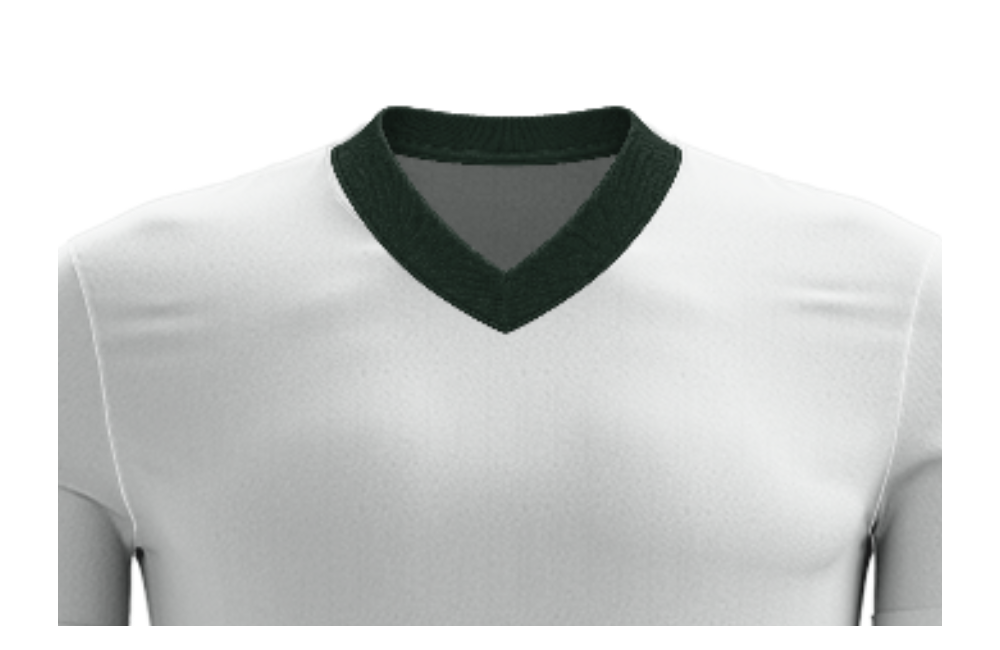
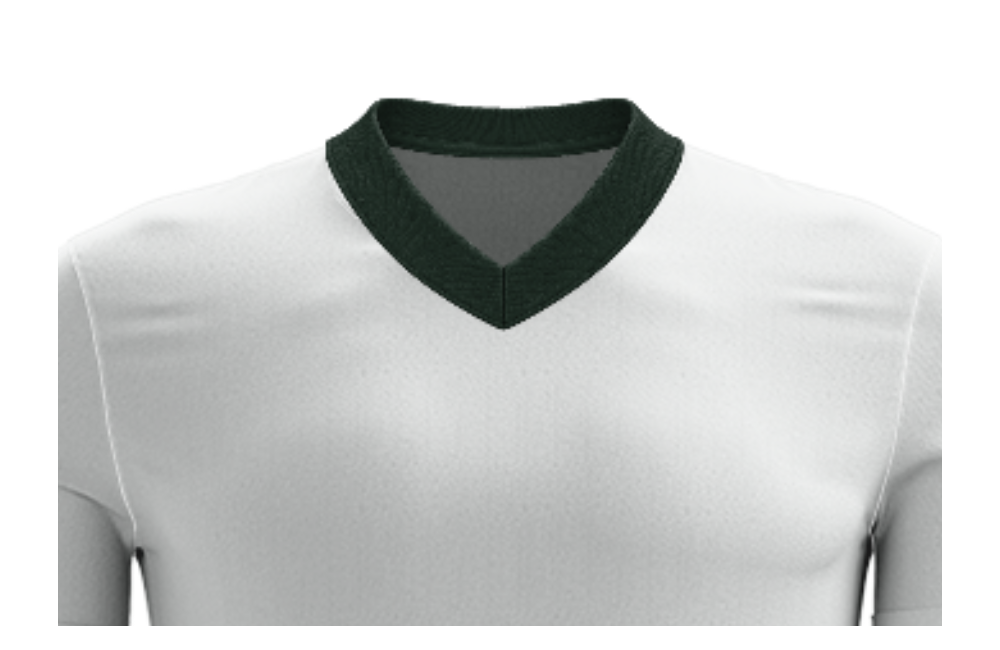
feat(bocetos): guardar anclajes frontales aprobados por Fito

diff --git a/platform/bocetos/prototypes/football-own-v1/basic-renderer.js b/platform/bocetos/prototypes/football-own-v1/basic-renderer.js
@@ -1,6 +1,7 @@
 import {createPrototypeRenderer} from './renderer.js';
 import {largestComponent,parseColor} from './material.js';
 import {createAnchorSchema} from './anchors.js';
+import {approvedFrontAnchors} from './basic-front-defaults.js';
 
 export const basicIdentity={model:'football-basic-v1',bodyRevision:'original-psd-collars-v1'};
 export const basicAnchorSchema=createAnchorSchema(basicIdentity);
@@ -75,6 +76,7 @@ export function createBasicCollarRenderer(makeCanvas){
       const body=renderer.materials.body[side],round=body.neckAnchors.round;
       for(const type of ['v','polo']){const neck=renderer.materials[type][side],width=round.width*(type==='polo'?1.16:1);body.neckAnchors[type]={centerX:round.centerX,top:round.top,width,height:width*body.width*neck.height/neck.width/body.height};}
     }
+    for(const type of ['round','v','polo'])renderer.materials.body.front.neckAnchors[type]={...approvedFrontAnchors[type]};
   }
   return {...renderer,load};
 }

diff --git a/platform/bocetos/prototypes/football-own-v1/basic-front-defaults.js b/platform/bocetos/prototypes/football-own-v1/basic-front-defaults.js
@@ -1,0 +1,7 @@
+// Front geometry approved by Fito in approved-anchors.json. Back stays original.
[1 lines of base64/hex data omitted]
+export const approvedFrontAnchors={
+  round:{centerX:0.506351943870024,top:0,width:0.3132712846094613,height:0.10692451921455273,keepRatio:true},
+  v:{centerX:0.5037315167970562,top:-0.006329595561629921,width:0.3088838228130842,height:0.17037729137196134,keepRatio:true},
+  polo:{centerX:0.5077017947757007,top:-0.018697320843374644,width:0.3545201329210975,height:0.17881394914900123,keepRatio:true}
+};

diff --git a/platform/docs/evidencias/TASK-20261020-006_PANEL_MOCKUPS.md b/platform/docs/evidencias/TASK-20261020-006_PANEL_MOCKUPS.md
@@ -152,3 +152,23 @@ Se pidió exportar y adjuntar el JSON. Solo entonces se fijarán sus valores com
 defaults; todavía se usan los valores de referencia al abrir sin caché.
 Checkpoint de esta corrección: SPORTEX_CLOSE=PASS, perfil local. Log privado
 sportex-fixed-back-collar-close.log; sin deploy ni cambios de caché de Fito.
+
+## JSON aprobado recibido y aplicado
+
+Fito adjunta sportex-anclajes-camiseta.json. Validación de modelo/revisión y
+seis registros PASS antes de aplicar. Archivo archivado como approved-anchors.json
+con SHA256 4fed900f232c478ccfb9b7fa793ab65d76f44b402dd054bfaa5c83337b5c205f.
+basic-front-defaults.js conserva exactamente sus tres registros frontales, sin
+redondear. El renderer los usa al abrir sin caché y al restablecer cada cuello.
+El perfil local posterior mantiene prioridad y la identidad de caché no cambia.
+La geometría trasera entregada no se aplica: se conserva el cuello original fijo.
+
+verify-basic:6 checks PASS, incluida comparación independiente contra el archivo
+aprobado y hash de origen; cuerpo y espalda siguen constantes. Cinco pruebas
+focales de material/controlador PASS. HTTP del nuevo módulo PASS tras reiniciar4321.
+Sin nuevas generaciones, despliegue ni cambios de datos reales.
+La captura adicional muestra otro mock con polo/banda V bicolor; solo referencia.
+No se infieren capas editables ni se agrega una variante sin el archivo original.
+Checkpoint: SPORTEX_CLOSE=PASS, perfil local. Log privado
+sportex-approved-collar-defaults-close.log. Sigue pendiente integración al kit
+del laboratorio; no se publica automáticamente esta geometría.

diff --git a/platform/docs/SESSION_STATE.md b/platform/docs/SESSION_STATE.md
@@ -62,7 +62,7 @@ Panel Mockups con borrador, prueba y configuracion inicial versionada del modelo
 - Tarea: `TASK-20261020-006`.
 - Fecha: `2026-10-20`.
 - Fuente: `docs/evidencias/TASK-20261020-006_PANEL_MOCKUPS.md`.
-- Frentes ajustados por Fito; espalda fija,6 checks y12 focales PASS. Falta JSON frontal y QA panel.
+- JSON frontal aprobado como defaults locales; espalda fija,6 checks PASS. Falta integracion y QA panel.
 
 ## Riesgos
 
@@ -78,4 +78,4 @@ Panel Mockups con borrador, prueba y configuracion inicial versionada del modelo
 
 ## Siguientes acciones
 
-- Recibir JSON frontal; espalda fija; completar QA visual.
+- Integrar cuellos aprobados al kit local; completar QA visual.

diff --git a/platform/docs/TASKS/active/TASK-20261020-006-panel-mockups.md b/platform/docs/TASKS/active/TASK-20261020-006-panel-mockups.md
@@ -49,13 +49,13 @@ Catalogo es aditivo; conservar datos publicados al volver a version anterior.
 ## deuda_restante
 
 QA visual final pendiente por control de navegador deshabilitado. Sin deploy.
-Cuellos: recibir JSON frontal de Fito antes de fijar defaults del kit.
+Cuellos: defaults locales aprobados; falta integracion al kit del laboratorio.
 
 ## registro_de_avances
 
 Panel/setup PASS. Cuellos locales sobre kit actual; anclajes editables y JSON.
 221 tests;6 checks de montaje PASS. QA navegador pendiente.
-Fito confirma tres frentes; espalda original fija. Export JSON pendiente.
+JSON frontal de Fito aplicado como defaults; espalda original fija.
 
 ## decisiones
 

diff --git a/platform/bocetos/PRODUCT.md b/platform/bocetos/PRODUCT.md
@@ -38,4 +38,5 @@ Fito cambia la prioridad: conservar Futbol basico y preparar solo sus cuellos.
 El visor local ahora monta redondo/V/polo en ese kit, con anclajes editables y
 JSON por modelo; los mockups de clientes se prepararan sobre sus propias bases.
 Fito confirma los tres ajustes frontales y mantiene el cuello original fijo en
-espalda. Falta recibir su JSON para convertir esos valores en defaults del kit.
+espalda. Su JSON ya define los defaults frontales del visor local; los cambios
+posteriores guardados en cada navegador siguen teniendo prioridad.

diff --git a/platform/docs/DECISIONES.md b/platform/docs/DECISIONES.md
@@ -296,3 +296,6 @@ Registro durable; las decisiones reemplazadas se marcan y el negocio queda en DE
   propio queda exploratorio; sin integracion ni deploy automaticos.
 - Fito da por ajustados los tres cuellos frontales y deja el cuello original
   fijo en espalda. No capturados aun sus valores locales: falta exportar JSON.
+- Fito entrega el JSON: sus tres frentes pasan a ser defaults del visor local.
+  Geometria trasera ignorada; mantiene cuello original. Nueva captura de polo
+  bicolor es solo referencia; no se ha pedido preparar otra variante.

diff --git a/platform/bocetos/prototypes/football-own-v1/README.md b/platform/bocetos/prototypes/football-own-v1/README.md
@@ -15,6 +15,8 @@ node bocetos/prototypes/football-own-v1/server.mjs
 Abrir `http://127.0.0.1:4321/`. Solo escucha en la computadora local.
 El visor no usa claves, API ni datos de empresas. Guarda solo los anclajes
 en localStorage, por modelo y versión del cuerpo.
+Los valores iniciales de frente son los del JSON aprobado por Fito, archivado
+en `approved-anchors.json`. La configuración local posterior tiene prioridad.
 
 ## Qué se puede comprobar
 
